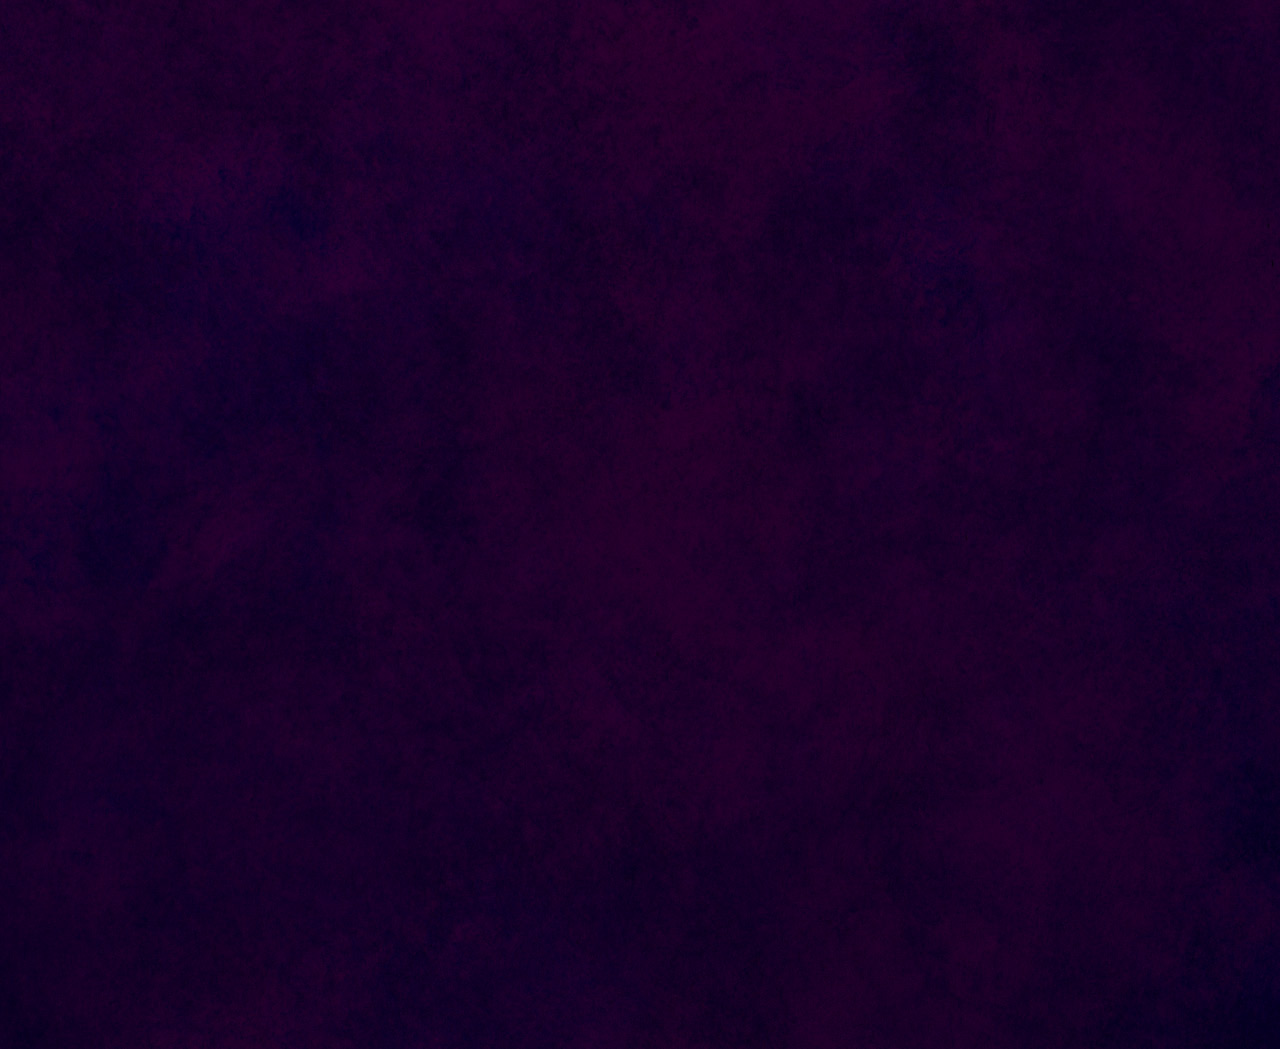
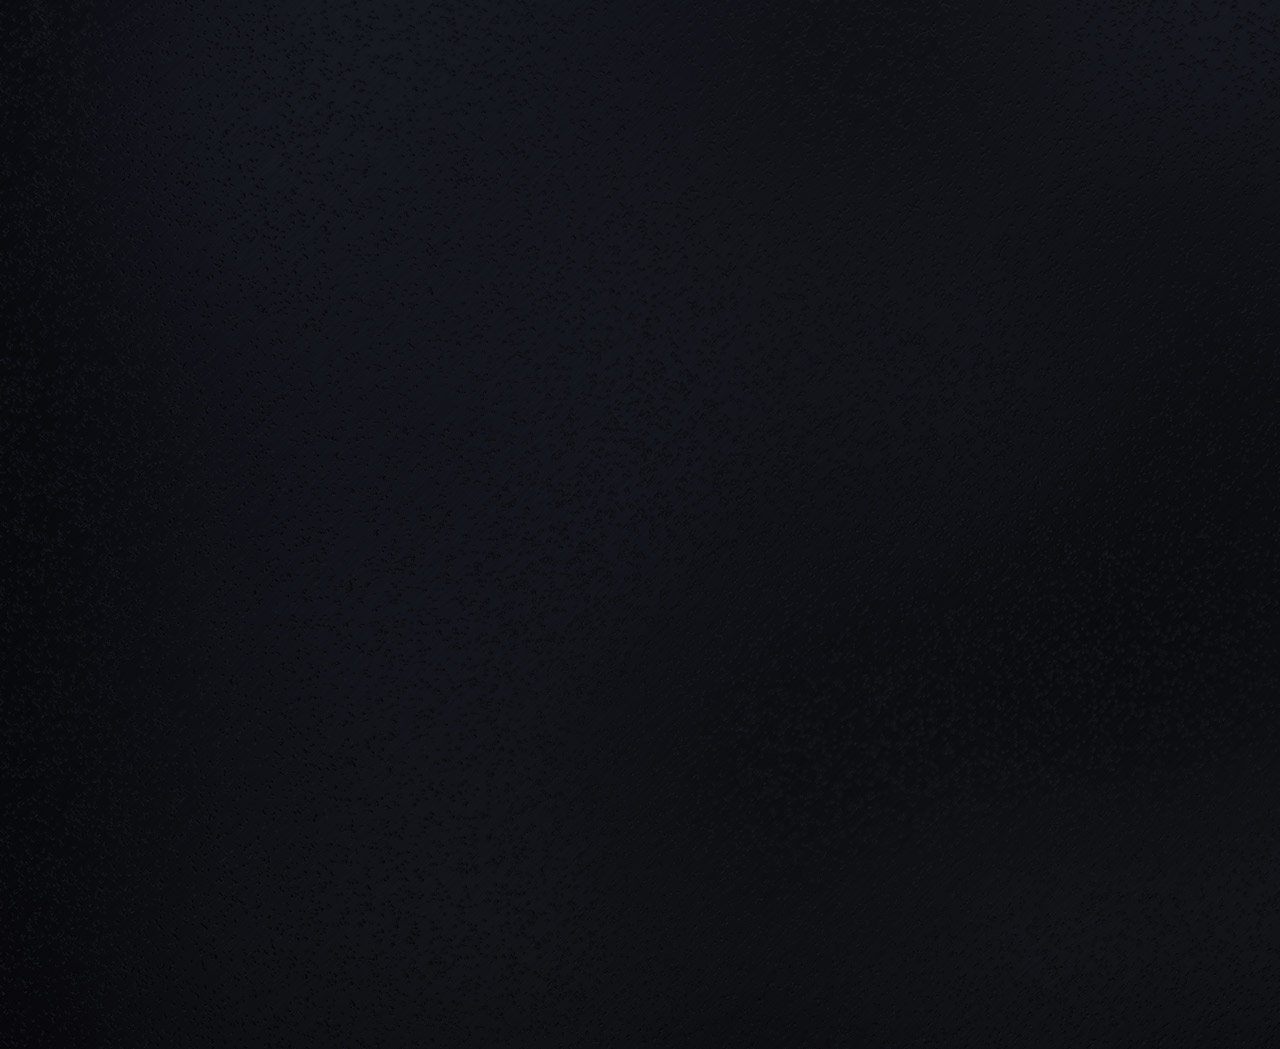
colour, design,a bit of layout...oh my

diff --git a/work.html b/work.html
@@ -38,27 +38,26 @@
 </div>
 
 <div class="grid">
-		<div class="unit unit-xs-1 unit-s-1 unit-m-1 unit-l-1-3
-island-1-2">
+		<div class="unit unit-xs-1 unit-s-1 unit-m-1 unit-l-1-3">
 			<a class="links" href="project-1.html ">
 				<div class="case-studies">
-					<h2 class="">Project 1</h2>
+					<img class="img-flex" src="img/test.jpg" alt="project 1 gutter-1-2">
 				</div>
 			</a>
 		</div>
 
-		<div class="unit unit-xs-1 unit-s-1 unit-m-1 unit-l-1-3 island-1-2">
+		<div class="unit unit-xs-1 unit-s-1 unit-m-1 unit-l-1-3">
 			<a class="links" href="#.html ">
 				<div class="case-studies">
-					<h2 class="">Project 2</h2>
+					<img class="img-flex" src="img/test.jpg" alt="project 1">
 				</div>
 			</a>
 		</div>
 
-		<div class="unit unit-xs-1 unit-s-1 unit-m-1 unit-l-1-3 island-1-2">
-			<a class="links" href="#.html ">
+		<div class="unit unit-xs-1 unit-s-1 unit-m-1 unit-l-1-3">
+			<a class="links" href="#.html">
 				<div class="case-studies">
-					<h2 class="">Project 3</h2>
+					<img class="img-flex" src="img/test.jpg" alt="project 1">
 				</div>
 			</a>
 		</div>
@@ -66,27 +65,26 @@ island-1-2">
 
 
 <div class="grid">
-		<div class="unit unit-xs-1 unit-s-1 unit-m-1 unit-l-1-3
-island-1-2">
+		<div class="unit unit-xs-1 unit-s-1 unit-m-1 unit-l-1-3">
 			<a class="links" href="#.html">
 				<div class="case-studies">
-					<h2 class="">Project 4</h2>
+					<img class="img-flex" src="img/test.jpg" alt="project 1">
 				</div>
 			</a>
 		</div>
 
-		<div class="unit unit-xs-1 unit-s-1 unit-m-1 unit-l-1-3 island-1-2">
+		<div class="unit unit-xs-1 unit-s-1 unit-m-1 unit-l-1-3">
 			<a class="links" href="#.html">
 				<div class="case-studies">
-					<h2 class="">Project 5</h2>
+					<img class="img-flex" src="img/test.jpg" alt="project 1">
 				</div>
 			</a>
 		</div>
 
-		<div class="unit unit-xs-1 unit-s-1 unit-m-1 unit-l-1-3 island-1-2">
+		<div class="unit unit-xs-1 unit-s-1 unit-m-1 unit-l-1-3">
 			<a class="links" href="#.html">
 				<div class="case-studies">
-					<h2 class="">Project 6</h2>
+					<img class="img-flex" src="img/test.jpg" alt="project 1">
 				</div>
 			</a>
 		</div>

diff --git a/css/main.css b/css/main.css
@@ -20,16 +20,21 @@ html {
  	margin: auto;
  }
 
+ .nav {
+ 	text-decoration: none;
+ 	color: #D6D5D4;
+ }
+
 /* color palate: (Purple) 552448 (beige)EAE3D4 000000 (gold)D4AF37 (silver)BCC6CC (dark purple)301436 19002c BCC6CC*/
 .home {
-	background-color: #19002c;
+	background-color: #0d121a;
 	background-image: url(../img/bg-image.jpg);
 	background-position: center center;
   background-size: cover;
 }
 
 .billboard {
-	color: #BCC6CC;
+	color: #D6D5D4;
 	height: 340px;
 	margin: 16em auto 0;
 }
@@ -42,37 +47,20 @@ html {
 	text-decoration: none;
 }
 
-.about {
-	background-image: url(../img/1500-820-placeholder.jpg);
+.option {
 	background-position: center center;
   background-size: cover;
   overflow: hidden;
 	height: 270px;
 	position: relative;
-	color: #D4AF37;
+	color: #D6D5D4;
+	background-color: #1F4388;
 }
 
-.about h2 {
+.option h2 {
 	text-align: center;
 	font-family: 'Open Sans', sans-serif;
-	font-weight: 200;
-	text-decoration: none;
-	margin: 3.5em auto 0;
-}
-
-.connect {
-	background-image: url(../img/1500-820-placeholder.jpg);
-	background-position: center center;
-  background-size: cover;
-  overflow: hidden;
-	height: 270px;
-	position: relative;
-	color: #D4AF37;
-}
-.connect h2 {
-	text-align: center;
-	font-family: 'Open Sans', sans-serif;
-	font-weight: 200;
+	font-weight: 400;
 	text-decoration: none;
 	margin: 3.5em auto 0;
 }

diff --git a/index.html b/index.html
@@ -21,10 +21,10 @@
 
 <!-- ******************* Navigation ************************-->
 
-<nav>
-	<a href="work.html">Case Studies</a>
-	<a href="about.html">About</a>
-	<a href="connect.html">Connect</a>
+<nav  >
+	<a class="nav" href="work.html">Case Studies</a>
+	<a class="nav" href="about.html">About</a>
+	<a class="nav" href="connect.html">Connect</a>
 </nav>
 
 <!-- ******************* Billboard ************************-->
@@ -42,7 +42,7 @@
 <div class="grid pad-top">
 		<div class="unit unit-xs-1 unit-s-1 unit-m-1 unit-l-1-3 island-1-4">
 			<a class="links" href="work.html ">
-				<div class="connect">
+				<div class="option">
 					<h2 class="">Case Studies</h2>
 				</div>
 			</a>
@@ -50,7 +50,7 @@
 
 		<div class="unit unit-xs-1 unit-s-1 unit-m-1 unit-l-1-3 island-1-4">
 			<a class="links" href="about.html ">
-				<div class="connect">
+				<div class="option">
 					<h2 class="">About</h2>
 				</div>
 			</a>
@@ -58,7 +58,7 @@
 
 		<div class="unit unit-xs-1 unit-s-1 unit-m-1 unit-l-1-3 island-1-4">
 			<a class="links" href="connect.html ">
-				<div class="connect">
+				<div class="option">
 					<h2 class="">Connect</h2>
 				</div>
 			</a>

diff --git a/css/case-study.css b/css/case-study.css
@@ -21,17 +21,20 @@ html {
  }
 
 .home {
-	background-color: #19002c;
+	background-color: #0d121a;
+	background-image: url(../img/bg-image.jpg);
+	background-position: center center;
+  background-size: cover;
 }
 /* color palate: (Purple) 552448 (beige)EAE3D4 000000 (gold)D4AF37 (silver)BCC6CC (dark purple)301436 19002c BCC6CC*/
 
 .billboard-work {
-	background-image: url(../img/1500-820-placeholder.jpg);
+	background-image: url(../img/woman-work.jpg);
 	background-position: center center;
   background-size: cover;
   overflow: hidden;
 	height: 400px;
-	color: #BCC6CC;
+	color: #D6D5D4;
 
 }
 
@@ -46,18 +49,17 @@ html {
 }
 
 .case-studies {
-	background-image: url(../img/1500-820-placeholder.jpg);
-	background-position: center center;
-  background-size: cover;
-  overflow: hidden;
-	height: 300px;
-	color: #D4AF37;
+	xbackground-image: url(../img/test.jpg);
+	xbackground-position: center center;
+  xbackground-size: cover;
+  xoverflow: hidden;
+	color: #D6D5D4;
 }
 
 .case-studies h2 {
 	text-align: center;
 	font-family: 'Open Sans', sans-serif;
-	font-weight: 200;
+	font-weight: 800;
 	text-decoration: none;
 	margin: 3.5em auto 0;
 }

diff --git a/portfolio-piece-template.md b/portfolio-piece-template.md
@@ -2,5 +2,6 @@ title:
 Service:
 design brief:
 process:
+image(s):
 solution:
 image(s):
